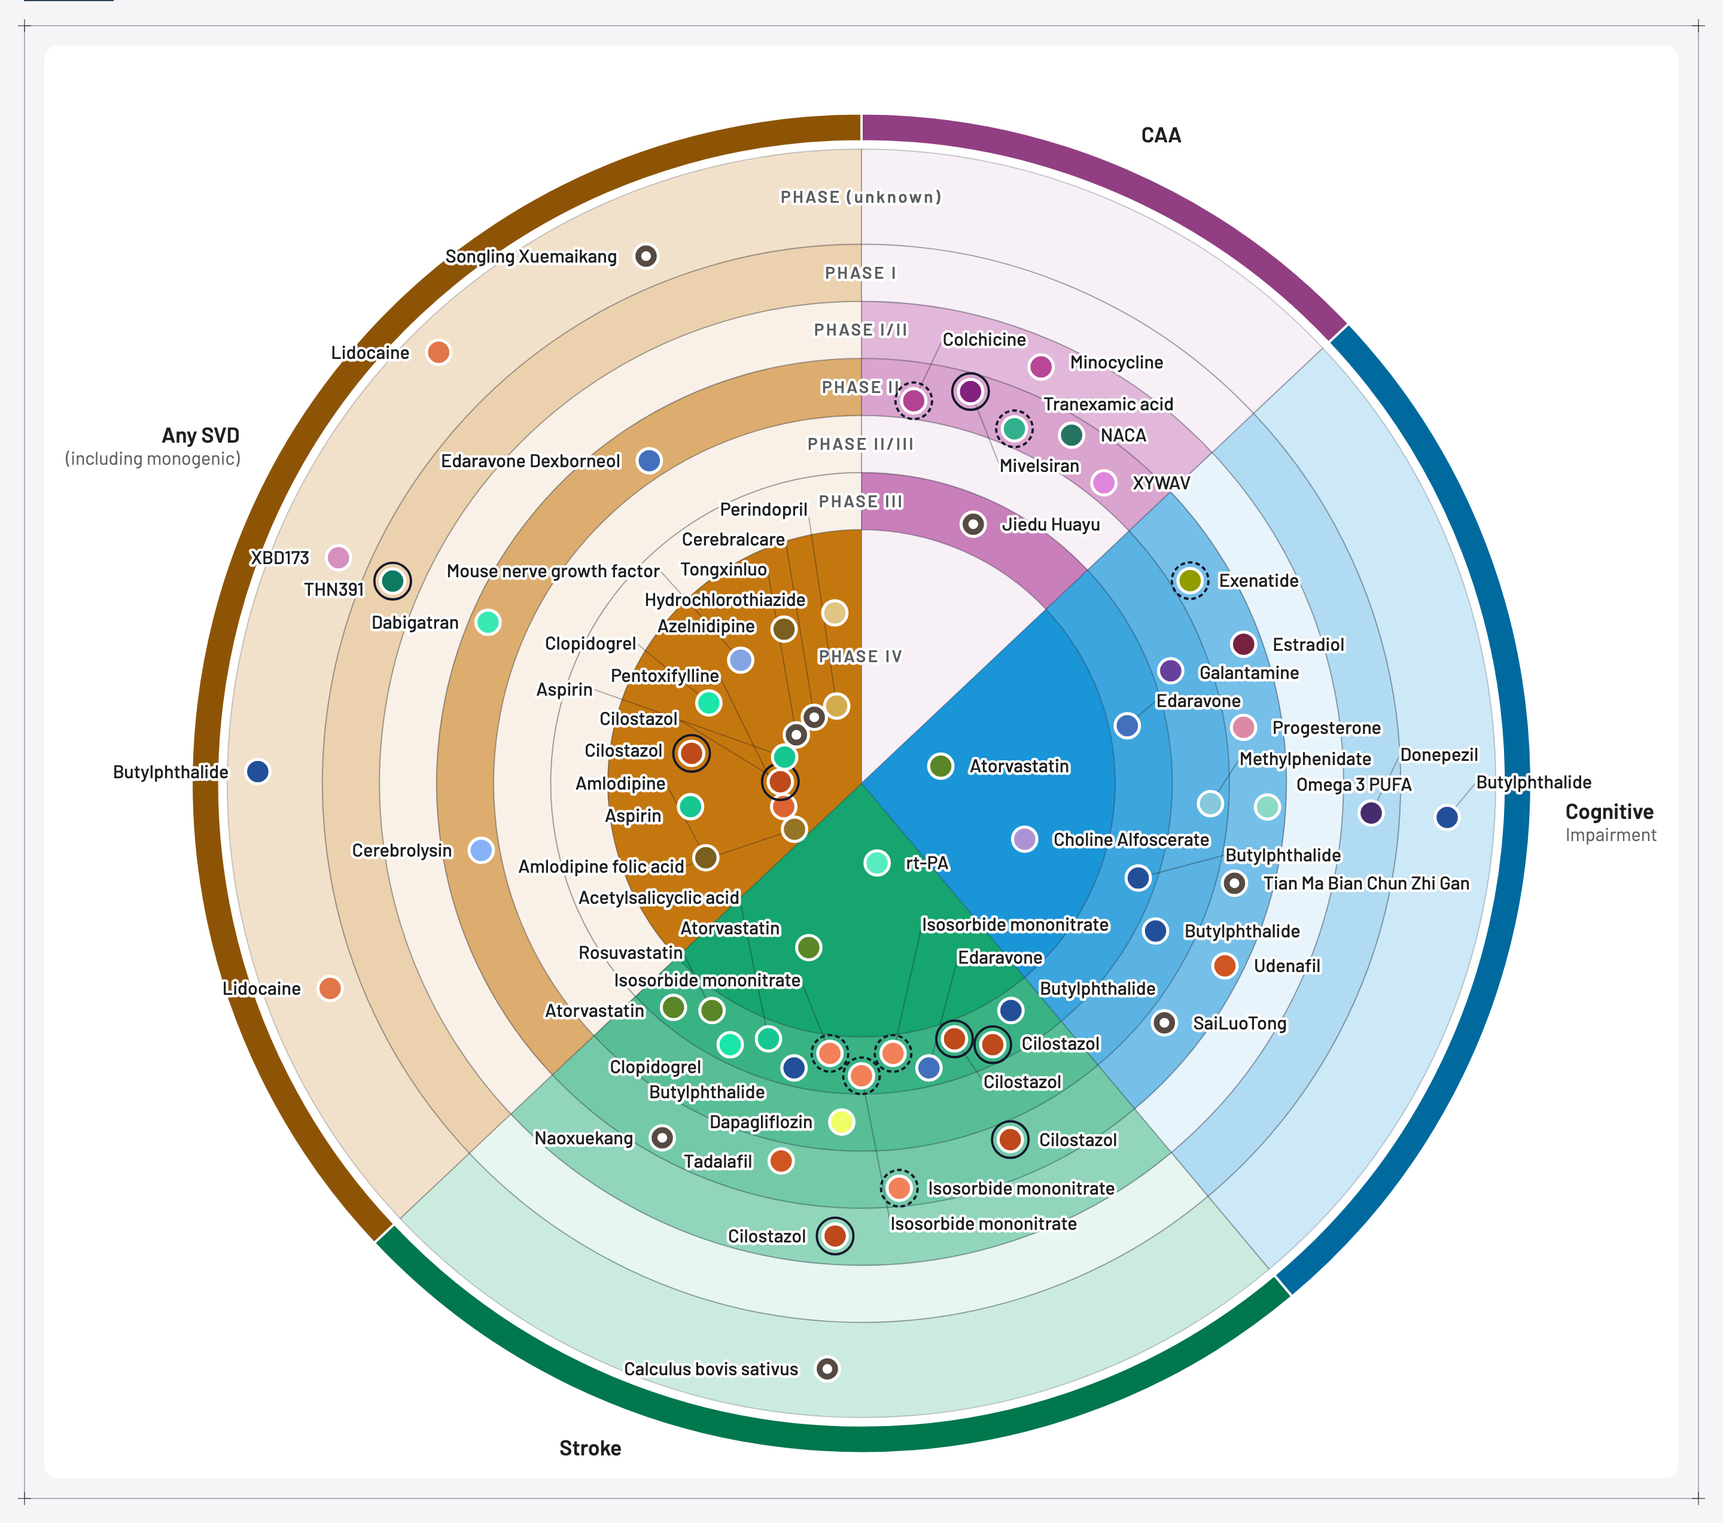
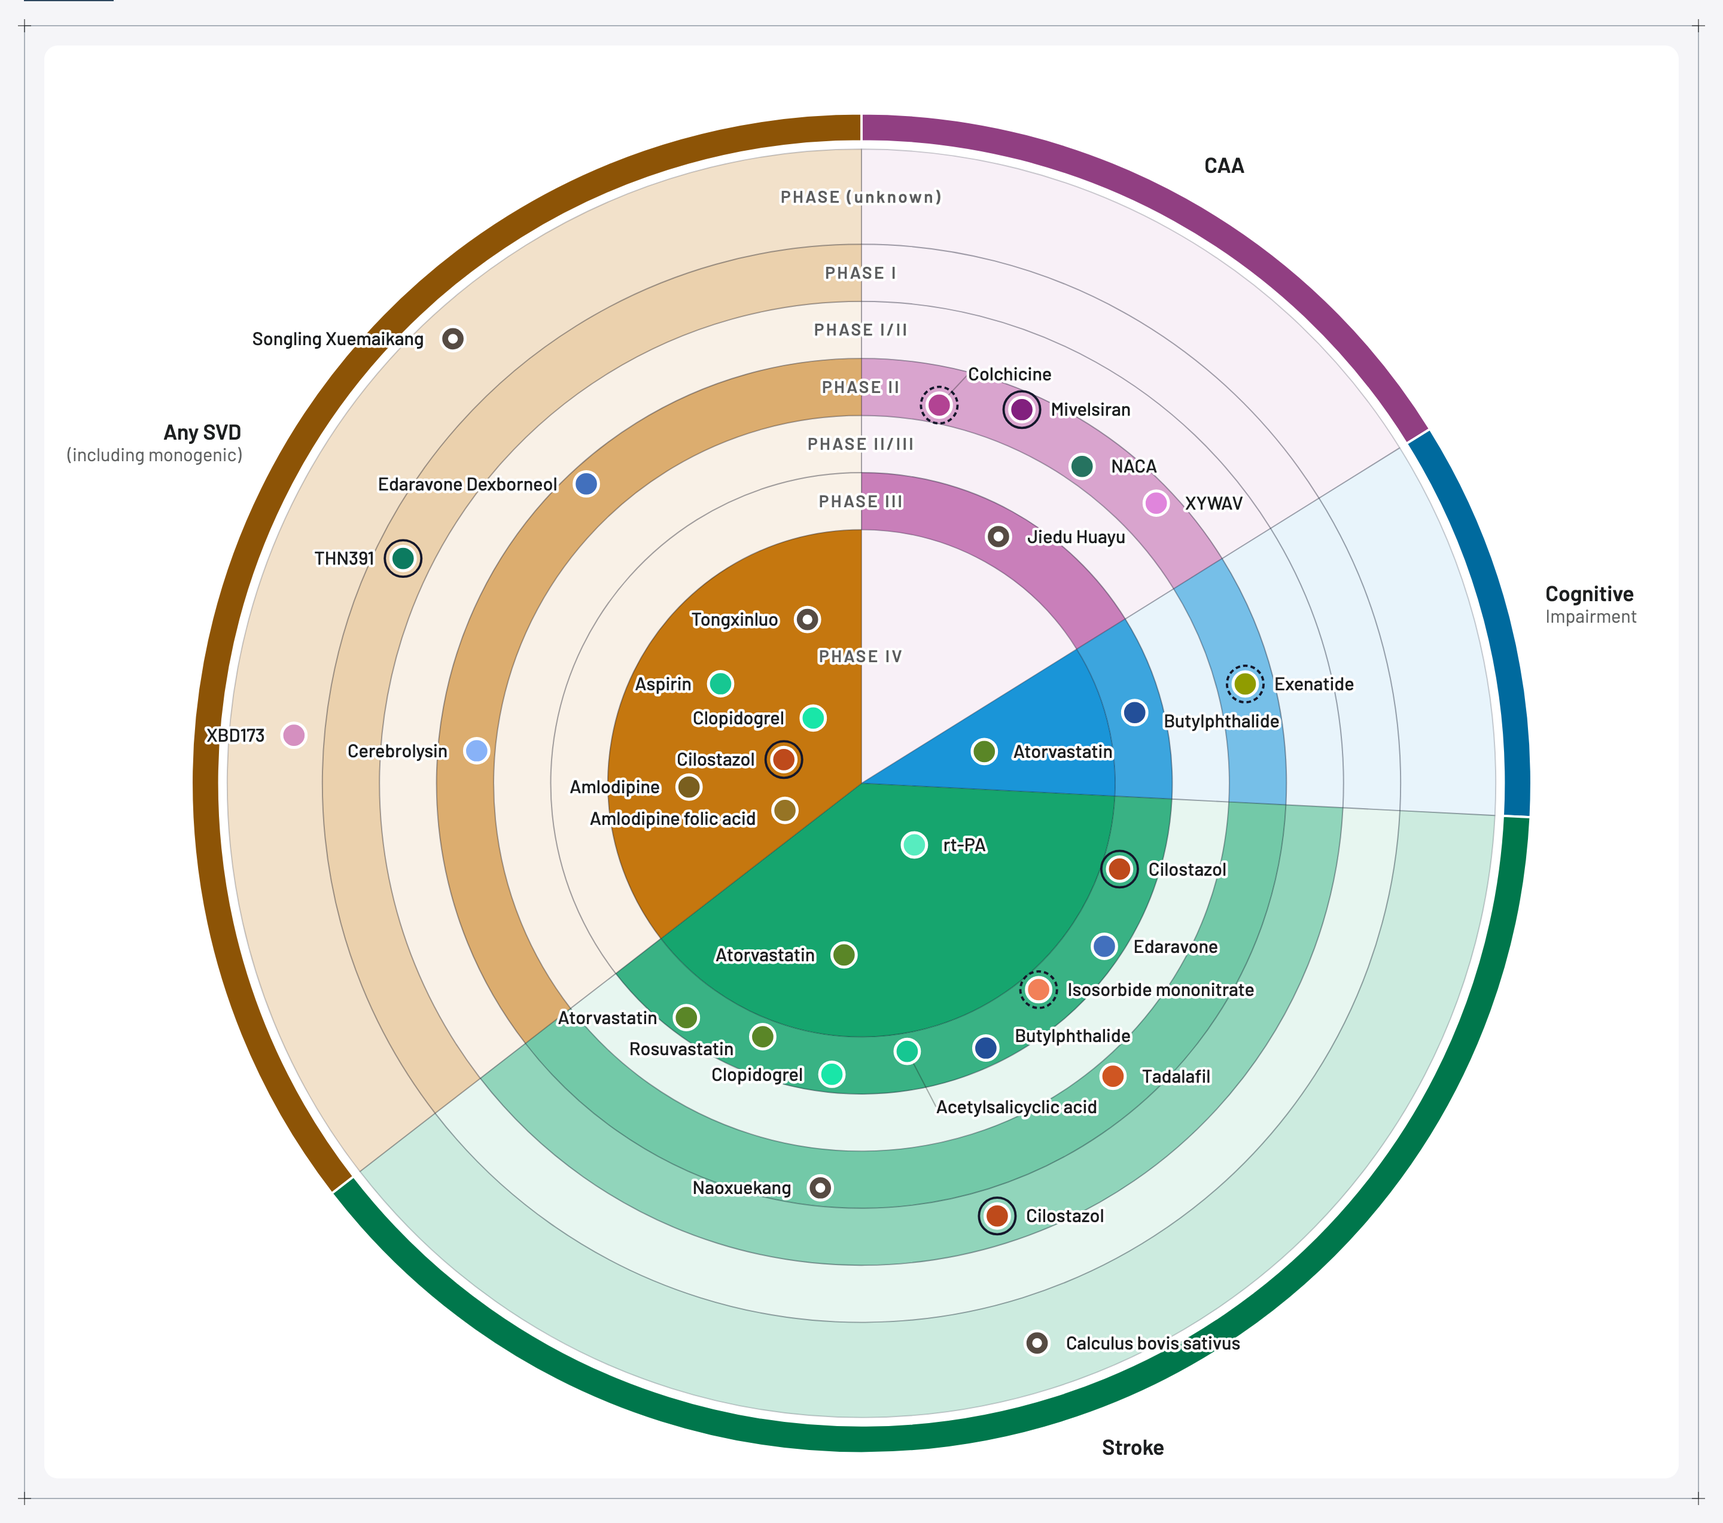
Start the trials pages with Suspended and Unknown unticked
DEFAULT_TRIAL_STATUSES now leaves out Suspended and Unknown as well as
Completed, so the table, the radar and the map all open on the trials that
are recruiting or active. Unknown also answers for a trial with no
ClinicalTrials.gov record, so the ISRCTN, ANZCTR and ChiCTR trials start
hidden too; that was chosen, not overlooked. On the committed data the table
and the radar open at 33 of 102 trials (was 67) and the map at 120 of 378
sites (was 173). No trial is Suspended today.

The smaller site set exposed a latent fault in the map spec's openAnyMarker:
its locator matched markercluster's coverage polygon, which is drawn while
the pointer rests on a cluster, and clicking it hit the cluster badge above
it until the test timed out (5 of 5 at a 320px viewport; 0 of 3 on the old
default). It and the perf harness's twin now match only site markers, the
paths carrying role="button".

The cSVD specs follow the visible set: the radar's halo test reads
Cilostazol's Stroke phase III marker, the PLG tooltip is searched for over
every status, the CADASIL search finds two trials, and the Academic search's
striping check pivots on Cerebrolysin instead of BAC. The README
screenshots of the three trial pages are recaptured.

diff --git a/e2e/tests/csvd/trials-table.spec.ts b/e2e/tests/csvd/trials-table.spec.ts
@@ -69,21 +69,24 @@ test("sorting descending by drug keeps repeated rows merged", async ({ page }) =
   await expect(page.locator("td.group-cell").first()).toBeVisible();
 });
 
-test("search narrows the trials table to the three visible CADASIL trials", async ({ page }) => {
+test("search narrows the trials table to the two visible CADASIL trials", async ({ page }) => {
   const search = page.getByRole("searchbox", { name: "Search trials" });
 
   // The global filter spans every column and runs over the default-visible
-  // (non-Completed) set, so "CADASIL" catches three of the five trials that
-  // name it in their title and population details -- Palm tocotrienols
-  // complex and Adrenomedullin are both Completed and hidden by default.
+  // set, so "CADASIL" catches two of the five trials that name it in their
+  // title and population details -- Cerebrolysin and Edaravone Dexborneol.
+  // Palm tocotrienols complex and Adrenomedullin are Completed and Dabigatran
+  // is Unknown, all three hidden by default.
   await search.fill("CADASIL");
   await expect(banner(page)).toHaveText(
-    `Active Filters: ${STATUS_SUMMARY} | Search: “CADASIL” — showing 3 of ${TRIAL_TOTAL} rows`,
+    `Active Filters: ${STATUS_SUMMARY} | Search: “CADASIL” — showing 2 of ${TRIAL_TOTAL} rows`,
   );
-  await expect(rows(page)).toHaveCount(3);
+  await expect(rows(page)).toHaveCount(2);
   await expect(page.locator(".pagination span").first())
-    .toHaveText("Showing 1–3 of 3");
+    .toHaveText("Showing 1–2 of 2");
   await expect(rows(page).filter({ hasText: "Cerebrolysin" })).toHaveCount(1);
+  await expect(rows(page).filter({ hasText: "Edaravone Dexborneol" }))
+    .toHaveCount(1);
 
   await search.fill("");
   await expect(rows(page)).toHaveCount(10);
@@ -100,18 +103,19 @@ test("search results keep alternating drug-group striping", async ({ page }) => 
   await pageSizeSelect(page).selectOption("100");
   // The search box debounces, so wait for the filtered set before reading
   // the stripes: read earlier, the rows still carry the unfiltered parity.
-  await expect(banner(page)).toContainText("showing 61 of 102 rows");
+  await expect(banner(page)).toContainText("showing 29 of 102 rows");
 
   await expect(banner(page)).toContainText("Search: “Academic”");
-  await expect(rows(page)).toHaveCount(61);
+  await expect(rows(page)).toHaveCount(29);
   const group = (drug: string) =>
     rows(page).filter({ has: page.getByText(drug, { exact: true }) }).first();
-  // Unfiltered, BAC sits between Azelnidipine and Butylphthalide; it matches
-  // no Academic row, so the groups after it shift by one and the stripes
-  // have to be recomputed over the filtered set to keep alternating.
-  await expect(group("Azelnidipine")).toHaveClass("group-odd");
-  await expect(group("Butylphthalide")).toHaveClass("group-even");
-  await expect(group("Calculus bovis sativus")).toHaveClass("group-odd");
+  // Unsearched, Cerebrolysin sits between Calculus bovis sativus (even) and
+  // Cilostazol (even after it); it matches no Academic row, so the groups
+  // after it shift by one and the stripes have to be recomputed over the
+  // filtered set to keep alternating.
+  await expect(group("Calculus bovis sativus")).toHaveClass("group-even");
+  await expect(group("Cilostazol")).toHaveClass("group-odd");
+  await expect(group("Clopidogrel")).toHaveClass("group-even");
 });
 
 test("a gene symbol matches no trial", async ({ page }) => {

diff --git a/e2e/tests/trials-filters.spec.ts b/e2e/tests/trials-filters.spec.ts
@@ -33,17 +33,17 @@ const STATUS = "Study status";
 const T = EXPECTED.trials;
 
 /**
- * The status group starts constrained (every status but Completed), so its
- * summary fragment rides along in the banner whenever any other group is
- * also active -- it is always last, since `statuses` is the last key in
- * `FILTERS`.
+ * The status group starts constrained (every status but Completed, Suspended
+ * and Unknown), so its summary fragment rides along in the banner whenever
+ * any other group is also active -- it is always last, since `statuses` is
+ * the last key in `FILTERS`.
  */
 
 test.beforeEach(async ({ page }) => {
   await page.goto("/trials");
 });
 
-test("starts with completed trials hidden", async ({ page }) => {
+test("starts with completed, suspended and not-stated trials hidden", async ({ page }) => {
   await expectSummary(page, STATUS_SUMMARY);
   await expectRowCount(page, TRIAL_SHOWN, TRIAL_TOTAL);
   for (const group of [EVIDENCE, REGISTRY, PHASE, POPULATION, SPONSOR]) {
@@ -172,17 +172,17 @@ test("impossible combinations show the empty state", async ({ page }) => {
   );
 });
 
-test("ticking Show All in the status group lifts the default Completed filter", async ({ page }) => {
+test("ticking Show All in the status group lifts the default status filter", async ({ page }) => {
   await choice(page, STATUS, "Show All").check();
   await expectRowCount(page, TRIAL_TOTAL, TRIAL_TOTAL);
 });
 
-test("unticking every status but Completed shows only completed trials", async ({ page }) => {
+test("ticking Completed and unticking every default status shows only completed trials", async ({ page }) => {
   await choice(page, STATUS, "Completed").check();
   for (const label of EXPECTED.defaultStatusLabels) {
     await choice(page, STATUS, label).uncheck();
   }
-  await expectRowCount(page, TRIAL_TOTAL - TRIAL_SHOWN, TRIAL_TOTAL);
+  await expectRowCount(page, T.completedOnly, TRIAL_TOTAL);
 });
 
 test("clearing all filters restores every group and the search together", async ({ page }) => {
@@ -204,8 +204,8 @@ test("clearing all filters restores every group and the search together", async 
   await page.getByRole("button", { name: "Clear all filters" }).click();
 
   // `reset` returns every group to its seeded default, and the status
-  // group's default is "every status but Completed" -- the summary reads
-  // that line, not "None".
+  // group's default is "every status but Completed, Suspended and Unknown"
+  // -- the summary reads that line, not "None".
   await expectSummary(page, STATUS_SUMMARY);
   await expectRowCount(page, TRIAL_SHOWN, TRIAL_TOTAL);
   await expect(search).toHaveValue("");

diff --git a/tests/filters_test.ts b/tests/filters_test.ts
@@ -330,15 +330,34 @@ Deno.test("buildFilterSummary prints choice labels, not wire values", () => {
   ]);
 });
 
-Deno.test("status choices derive from the vocabulary and the default hides Completed", () => {
+Deno.test("status choices derive from the vocabulary and the default hides Completed, Suspended and Unknown", () => {
   const values = STATUS_CHOICES.map((c) => c.value);
   assertEquals(values[0], SHOW_ALL);
-  assert(values.includes("COMPLETED") && values.includes("UNKNOWN"));
+  assert(
+    values.includes("COMPLETED") && values.includes("SUSPENDED") &&
+      values.includes("UNKNOWN"),
+  );
   assert(!values.includes("TERMINATED") && !values.includes("WITHDRAWN"));
+  const hidden = new Set([SHOW_ALL, "COMPLETED", "SUSPENDED", "UNKNOWN"]);
   assertEquals(
     DEFAULT_TRIAL_STATUSES,
-    values.filter((v) => v !== SHOW_ALL && v !== "COMPLETED"),
+    values.filter((v) => !hidden.has(v)),
   );
+});
+
+Deno.test("the default trial selection hides completed, suspended and not-stated trials", () => {
+  const rows = [
+    "RECRUITING",
+    "ACTIVE_NOT_RECRUITING",
+    "COMPLETED",
+    "SUSPENDED",
+    "UNKNOWN",
+    UNKNOWN,
+  ].map((overallStatus) => ({ ...sampleTrial(), overallStatus }));
+  assertEquals(visibleTrials(rows).map((r) => r.overallStatus), [
+    "RECRUITING",
+    "ACTIVE_NOT_RECRUITING",
+  ]);
 });
 
 Deno.test("status filtering folds the export sentinel onto the UNKNOWN choice", () => {
@@ -356,7 +375,10 @@ Deno.test("status filtering folds the export sentinel onto the UNKNOWN choice", 
   assertEquals(only(["RECRUITING"]), [" recruiting "]);
   assertEquals(only(["UNKNOWN"]), ["UNKNOWN", UNKNOWN]);
   assertEquals(only([SHOW_ALL]).length, 4);
-  assertEquals(visibleTrials(rows).length, 3);
+  // The default leaves Unknown unticked, so it hides the sentinel with it.
+  assertEquals(visibleTrials(rows).map((r) => r.overallStatus), [
+    " recruiting ",
+  ]);
   assertEquals(defaultTrialFilters().statuses, DEFAULT_TRIAL_STATUSES);
 });
 
@@ -379,9 +401,16 @@ Deno.test("location status filtering treats a null status as not stated", () => 
     1,
   );
   assertEquals(filterLocationsByStatus([site], [SHOW_ALL]).length, 1);
+  // The default hides a site whose status is not stated, as it hides
+  // Suspended and Completed ones.
   assertEquals(
-    filterLocationsByStatus([site], DEFAULT_TRIAL_STATUSES).length,
-    1,
+    filterLocationsByStatus([
+      site,
+      { ...site, status: "SUSPENDED" },
+      { ...site, status: "COMPLETED" },
+      { ...site, status: "RECRUITING" },
+    ], DEFAULT_TRIAL_STATUSES).map((l) => l.status),
+    ["RECRUITING"],
   );
 });
 

diff --git a/tests/islands_ssr_test.tsx b/tests/islands_ssr_test.tsx
@@ -112,12 +112,22 @@ const TRIALS = [
     targetSampleSize: "(unknown)",
     sponsorType: "Industry",
   }),
-  // A registry-less, status-less row, completed and so hidden by default.
+  // A registry-less, phase-less row: shown, since it is recruiting, but no
+  // ring can place it.
   sampleTrial({
     drug: "Drug C",
     registryId: "(unknown)",
-    overallStatus: "(unknown)",
     clinicalTrialPhase: "",
+    targetPopulation: POPULATION,
+    mechanismOfAction: MECHANISM,
+  }),
+  // A status the registry never stated folds onto the Unknown choice, which
+  // the default selection leaves unticked, so this row starts hidden.
+  sampleTrial({
+    drug: "Drug D",
+    registryId: "NCT00000004",
+    overallStatus: "(unknown)",
+    clinicalTrialPhase: "III",
     targetPopulation: POPULATION,
     mechanismOfAction: MECHANISM,
   }),
@@ -162,13 +172,14 @@ Deno.test("Phenogram over no genes draws no chromosome and no unplaced note", ()
 
 Deno.test("TrialsTimeline draws a marker per visible trial with rings, gaps and both legends", () => {
   const html = renderToString(<TrialsTimeline rows={TRIALS} />);
-  // One marker group per trial the rings can place; the phase-less row is
-  // counted but drawn nowhere.
+  // One marker group per visible trial the rings can place; the phase-less
+  // row is counted but drawn nowhere, and the status-less one is neither.
   assertEquals(count(html, 'data-drug="Drug A"'), 2);
   assertEquals(count(html, 'class="marker"'), 3);
+  assert(!html.includes('data-drug="Drug D"'));
   assertStringIncludes(html, 'class="evidence"');
   assertStringIncludes(html, 'class="gap"');
-  assertStringIncludes(html, "Showing 4 of 4 trials");
+  assertStringIncludes(html, "Showing 4 of 5 trials");
   assertStringIncludes(html, 'class="timeline-legend-item"');
   assertStringIncludes(html, timeline.populations[0].label.join(" "));
 });
@@ -185,9 +196,9 @@ Deno.test("TrialsView merges a drug's rows and tooltips its targets and registry
   assertStringIncludes(html, "NCT00000001");
   assertStringIncludes(html, "GENE1");
   assertStringIncludes(html, "Recruiting");
-  // A status the registry never stated folds onto the UNKNOWN choice, which
-  // the default selection keeps, so every synthetic row shows.
-  assertStringIncludes(html, "showing 4 of 4 rows");
+  // The status-less row starts hidden with the rest of Unknown.
+  assertStringIncludes(html, "showing 4 of 5 rows");
+  assert(!html.includes("NCT00000004"));
   assertStringIncludes(html, "Jan 2030");
 });
 

diff --git a/lib/constants.ts b/lib/constants.ts
@@ -202,10 +202,22 @@ export const STATUS_CHOICES: readonly FilterChoice[] = [
     )),
 ];
 
-/** The first filter default that is not Show-All: completed trials stay in the record and off the page. */
+/**
+ * Statuses the trials pages start with unticked. They stay in the record and
+ * one tick away, but off the page until asked for: a completed trial is over,
+ * a suspended one is paused, and a status not stated -- CT.gov's own UNKNOWN,
+ * or a trial with no ClinicalTrials.gov record at all -- says nothing current.
+ */
+const HIDDEN_BY_DEFAULT: ReadonlySet<string> = new Set([
+  "COMPLETED",
+  "SUSPENDED",
+  STATUS_NOT_STATED,
+]);
+
+/** The first filter default that is not Show-All: the table, radar and map all start from it. */
 export const DEFAULT_TRIAL_STATUSES: readonly string[] = STATUS_CHOICES
   .map((choice) => choice.value)
-  .filter((value) => value !== SHOW_ALL && value !== "COMPLETED");
+  .filter((value) => value !== SHOW_ALL && !HIDDEN_BY_DEFAULT.has(value));
 
 // -----------------------------------------------------------------------------
 // REGISTRIES AND EXTERNAL LINKS

diff --git a/e2e/tests/map.spec.ts b/e2e/tests/map.spec.ts
@@ -254,9 +254,12 @@ async function openAnyMarker(page: import("@playwright/test").Page) {
   // Leaflet keeps a path in the overlay pane for markers it has not laid out
   // yet, drawn as `d="M0 0"`. With many facility sites visible one of those is
   // often first in document order, so the visible ones are what this drills
-  // for.
+  // for. The overlay pane also holds markercluster's coverage polygon, drawn
+  // while the pointer rests on a cluster -- after a cluster click it often
+  // does -- and clicking that polygon lands on the cluster badge above it.
+  // Only a site marker carries `role="button"`.
   const marker = page.locator(
-    ".leaflet-overlay-pane path.leaflet-interactive:visible",
+    '.leaflet-overlay-pane path.leaflet-interactive[role="button"]:visible',
   );
   const cluster = page.locator(".marker-cluster");
   const markerInView = () =>

diff --git a/e2e/tests/csvd/tooltips.spec.ts b/e2e/tests/csvd/tooltips.spec.ts
@@ -361,9 +361,16 @@ test("registry IDs on the trials table carry a registry tooltip", async ({ page 
 });
 
 /** The four single-symbol genetic targets in the curated rows. The table
- * paginates now, so each is searched for rather than counted on page one. */
+ * paginates now, so each is searched for rather than counted on page one,
+ * and over every status: PLG's one trial, Tranexamic acid
+ * (ACTRN12624001477516), has no ClinicalTrials.gov record and starts hidden
+ * under Unknown. */
 test("single-symbol genetic targets get tooltips", async ({ page }) => {
   await page.goto("/trials");
+  await page.getByRole("group", { name: /^Study status/ }).getByRole(
+    "checkbox",
+    { name: /^Show All/ },
+  ).check();
   const search = page.getByRole("searchbox", { name: "Search trials" });
 
   for (const symbol of ["PDE3A", "APP", "GLP1R", "PLG"]) {

diff --git a/e2e/tests/csvd/timeline.spec.ts b/e2e/tests/csvd/timeline.spec.ts
@@ -25,10 +25,11 @@ test("labels are boxless halos and the evidence ring lifts with its marker", asy
   ) => [...new Set(rects.map((rect) => rect.getAttribute("fill")))]);
   expect(fills).toEqual(["none"]);
 
-  // Cilostazol reaches this cell on more than one trial now; any of them
-  // carries the same evidence ring.
+  // Cilostazol's Stroke phase III cell holds NCT06530537, recruiting and so
+  // visible by default; its phase II marker is ISRCTN14632228, which has no
+  // ClinicalTrials.gov record and starts hidden under Unknown.
   const trial = figure.locator(
-    'g.drug[data-drug="Cilostazol"][data-pop="Stroke"][data-phase="II"]',
+    'g.drug[data-drug="Cilostazol"][data-pop="Stroke"][data-phase="III"]',
   ).first();
   const ring = trial.locator("circle.evidence");
   await expect(ring).toHaveCount(1);

diff --git a/components/useCheckboxFilters.ts b/components/useCheckboxFilters.ts
@@ -12,8 +12,9 @@ type FilterDefinition = Omit<CheckboxFilterConfig, "selected" | "onChange"> & {
    * The selection the group starts with and returns to on reset. Absent,
    * a binary group starts with both choices and a showAll group with
    * Show All -- both "unconstrained". The trials pages' "Study status" is
-   * the one group that starts constrained (every status but Completed),
-   * and the "Active Filters:" line reports it on first paint on purpose.
+   * the one group that starts constrained (every status but Completed,
+   * Suspended and Unknown), and the "Active Filters:" line reports it on
+   * first paint on purpose.
    */
   initial?: readonly string[];
 };

diff --git a/lib/filters.ts b/lib/filters.ts
@@ -256,7 +256,7 @@ export function filterTrials(
   });
 }
 
-/** Every group unconstrained except status, which starts without Completed. */
+/** Every group unconstrained except status, which starts without Completed, Suspended and Unknown. */
 export function defaultTrialFilters(): TrialFilters {
   return {
     geneticEvidence: YES_NO_CHOICES.map((choice) => choice.value),

diff --git a/e2e/tests/trials-table.spec.ts b/e2e/tests/trials-table.spec.ts
@@ -9,7 +9,7 @@ import {
 import { banner, pageSizeSelect, rows } from "../helpers.ts";
 
 const TOTAL = TRIAL_TOTAL;
-/** Default-visible rows: every status but Completed. */
+/** Default-visible rows: every status but Completed, Suspended and Unknown. */
 const SHOWN = TRIAL_SHOWN;
 const HAS_ROWS = SHOWN > 0;
 

diff --git a/e2e/fixtures/expected.deno.ts b/e2e/fixtures/expected.deno.ts
@@ -270,6 +270,7 @@ const expected = {
     registryPhase,
     impossible: impossibleTrial,
     phasesPresent,
+    completedOnly: countTrials({ statuses: ["COMPLETED"] }),
   },
 
   firstGeneAsc: firstGene(genesByName),
